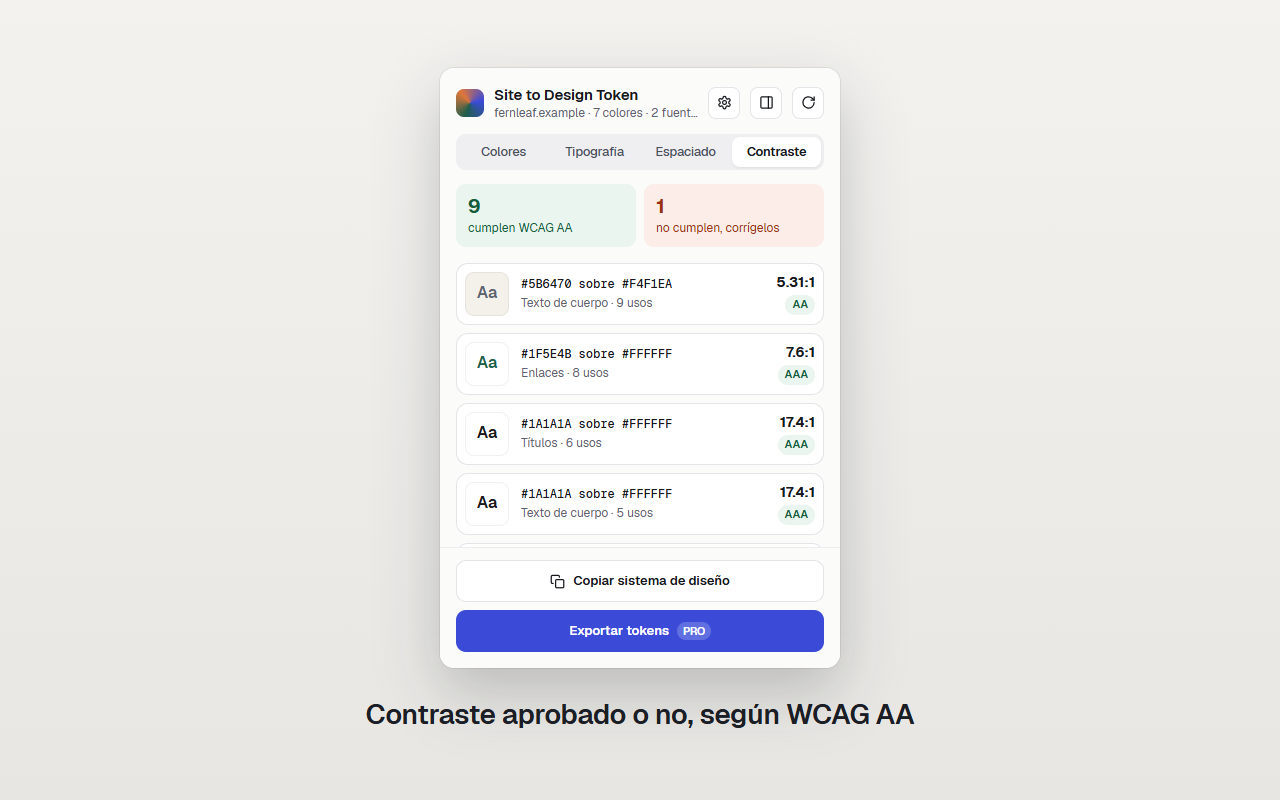
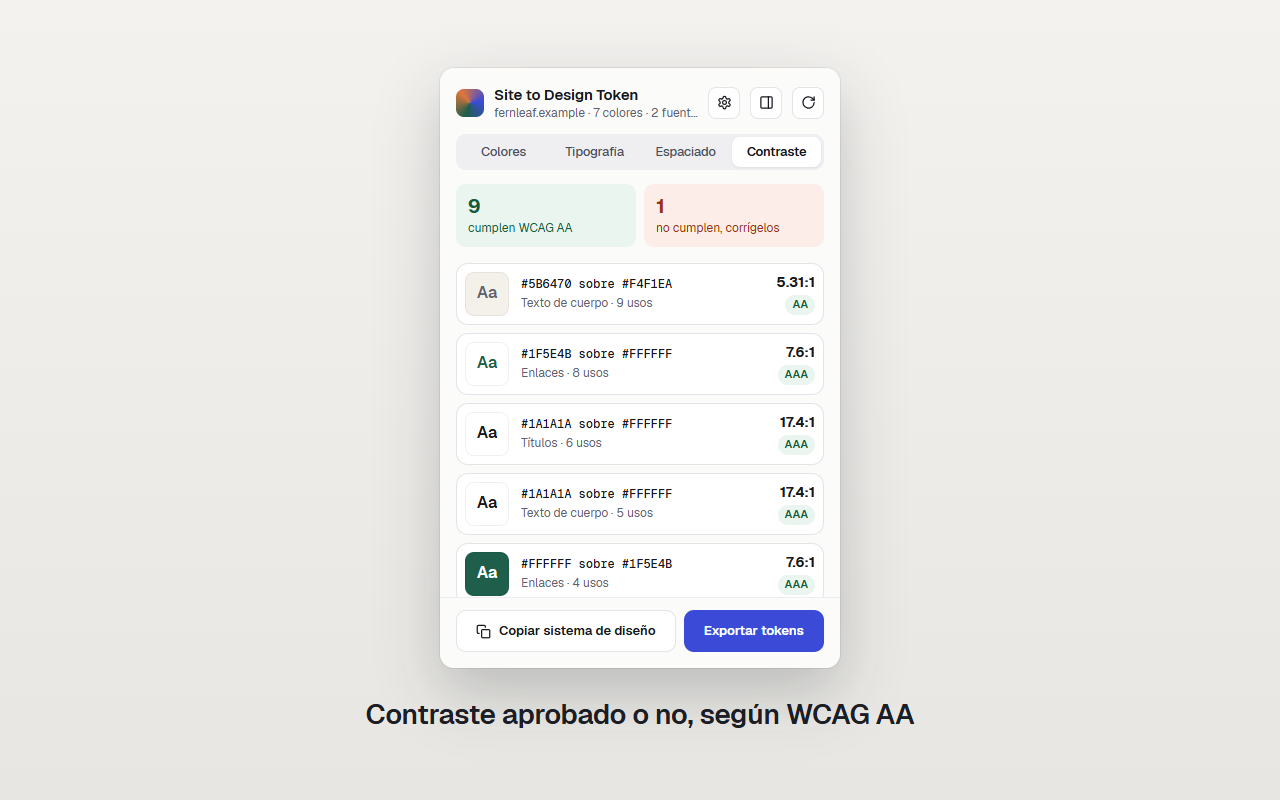
Popup: Export tokens loses its PRO badge now that copying is free
Only Download is Pro, and that button carries the badge. Screenshots regenerated.

Changed region(s): [[0.3438, 0.6875, 0.625, 0.8125], [0.5938, 0.6875, 0.625, 0.7188]]

diff --git a/extension/test/unit/ui-popup.test.tsx b/extension/test/unit/ui-popup.test.tsx
@@ -140,16 +140,11 @@ describe('popup App', () => {
     expect(screen.queryByRole('dialog')).toBeNull();
   });
 
-  it('marks Export tokens as PRO for free users only', async () => {
+  it('does not mark Export tokens as PRO: copying is free, only Download is Pro', async () => {
     mocks.scanActiveTab.mockResolvedValue(brewline());
-    const { unmount } = render(<App />);
-    const btn = await screen.findByRole('button', { name: /Export tokens/ });
-    expect(within(btn).getByText('PRO')).toBeTruthy();
-    unmount();
-    mocks.settings = { ...mocks.settings, pro: true };
     render(<App />);
-    const pro = await screen.findByRole('button', { name: /Export tokens/ });
-    expect(within(pro).queryByText('PRO')).toBeNull();
+    const btn = await screen.findByRole('button', { name: /Export tokens/ });
+    expect(within(btn).queryByText('PRO')).toBeNull();
   });
 
   it('shows the restricted empty state', async () => {

diff --git a/extension/test/e2e/extension.spec.ts b/extension/test/e2e/extension.spec.ts
@@ -263,7 +263,7 @@ test.describe('languages', () => {
 
       await expect(popup.locator('html')).toHaveAttribute('lang', lang);
       await expect(popup.locator('.swatch').first()).toBeVisible();
-      await expect(popup.locator('.footer .badge')).toBeVisible();
+      await expect(popup.locator('.footer .badge')).toHaveCount(0);
       // The footer is pinned inside the 600 px popup; the tab panel scrolls instead.
       const footer = await popup.locator('.footer').boundingBox();
       expect(footer!.y + footer!.height, 'footer bottom').toBeLessThanOrEqual(600);

diff --git a/extension/src/ui/popup/App.tsx b/extension/src/ui/popup/App.tsx
@@ -207,7 +207,6 @@ export function App({ onExport }: AppProps) {
             </button>
             <button type="button" class="btn btn-primary" onClick={() => (onExport ?? (() => openPanel('export')))(tokens, settings)}>
               {t('popup.exportTokens')}
-              {!settings.pro && <span class="badge">{t('popup.pro')}</span>}
             </button>
           </footer>
         </>
